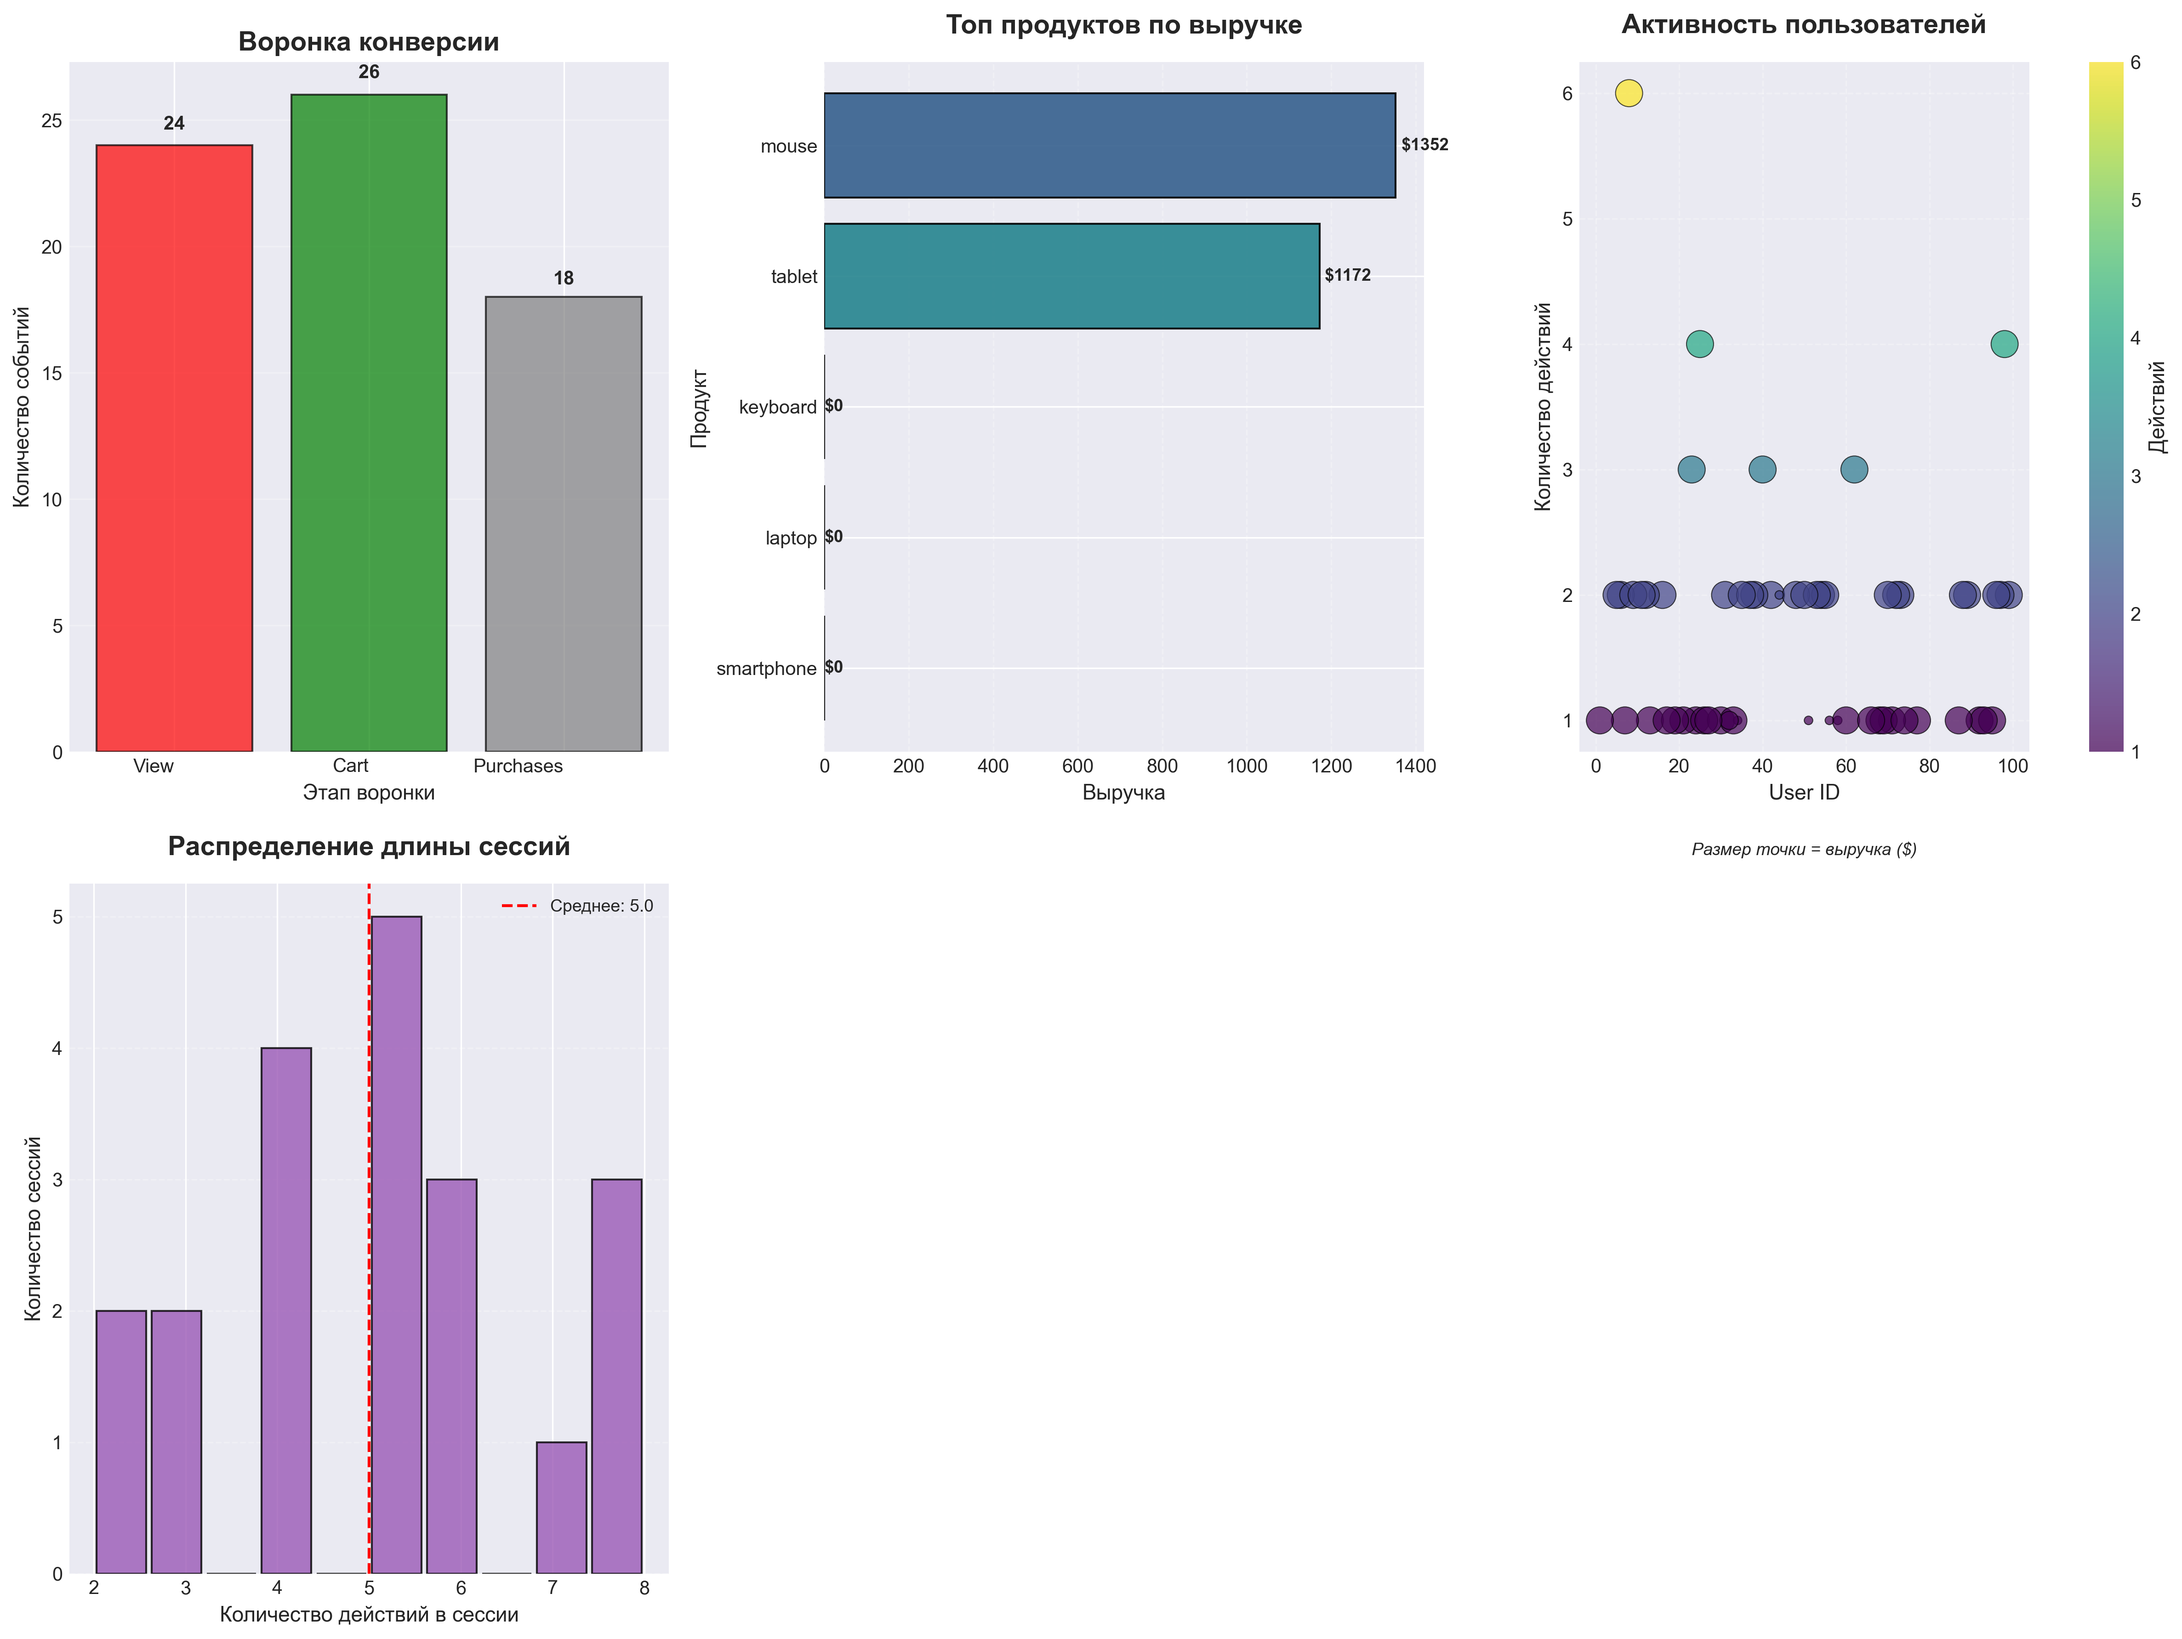
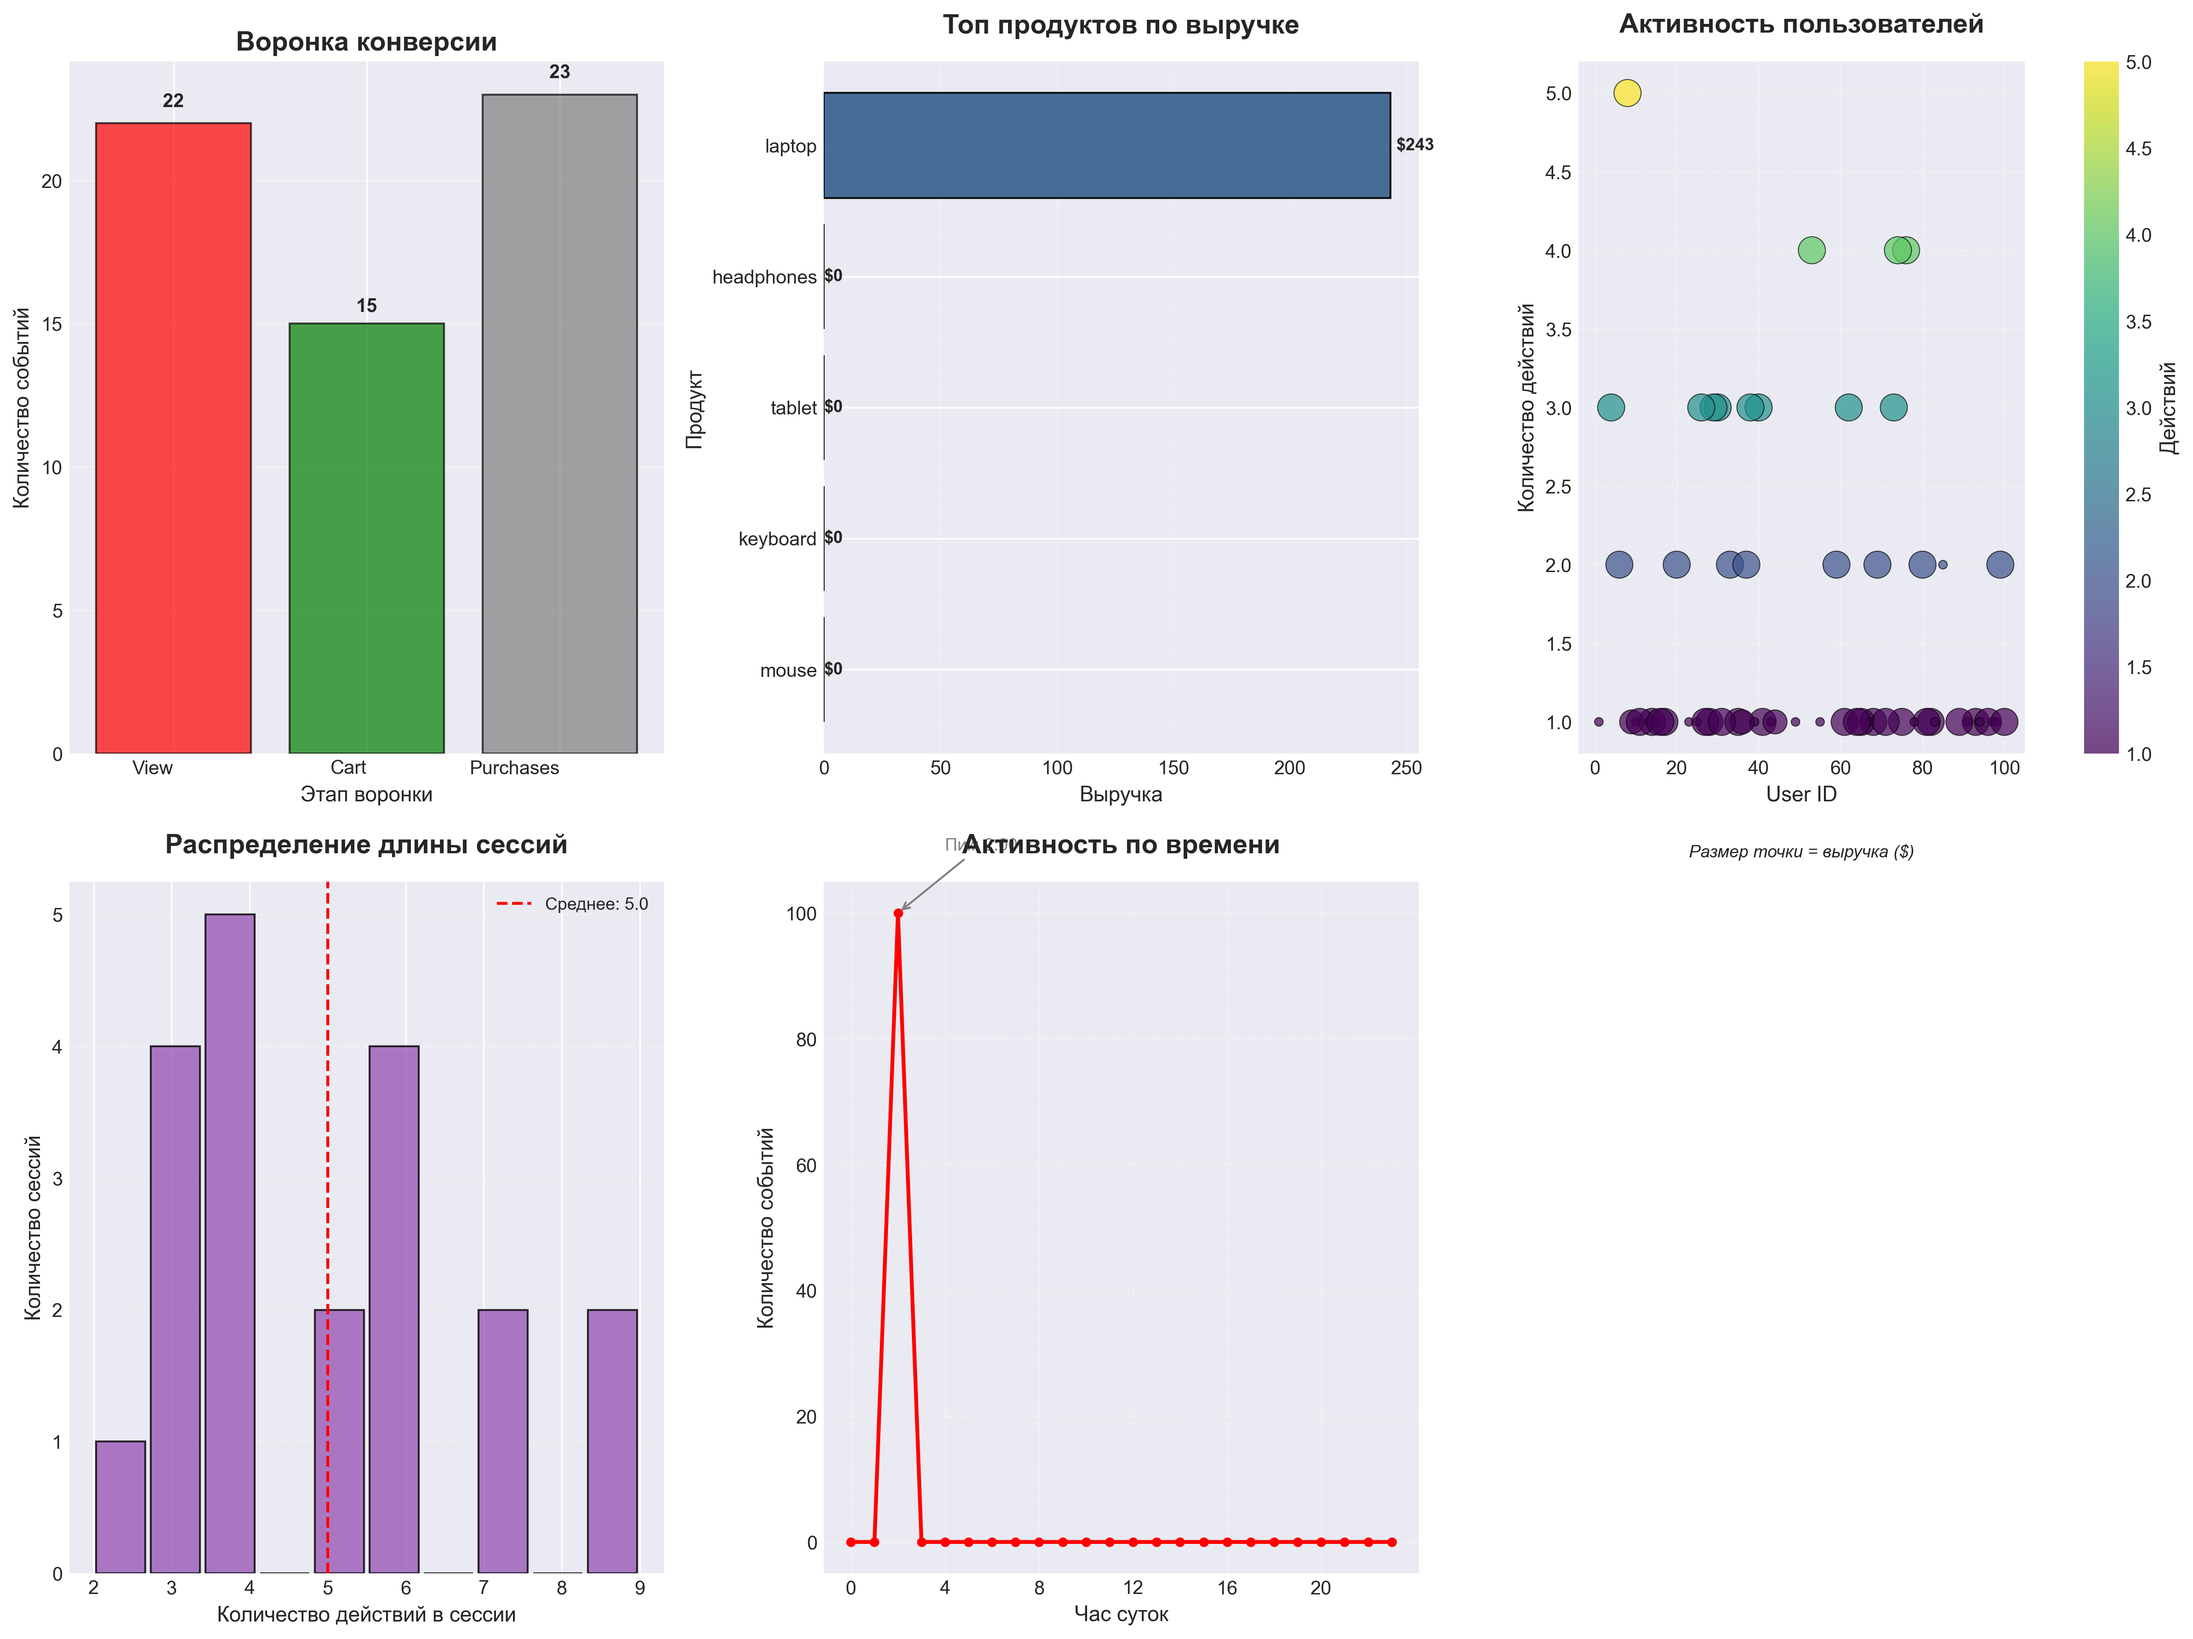
features: Добвален Активность по времени (line plot)

diff --git a/scripts/dashboard.py b/scripts/dashboard.py
@@ -174,6 +174,48 @@ class Dashboard:
             plt.title('Распределение длины сессий', fontsize=14, fontweight='bold')
             plt.grid(True, alpha=0.2)
             plt.tight_layout()
+            
+        # ================График 5: Активность по времени (line plot)===============
+        # Эмуляция активности по часам дня
+        plt.subplot(2, 3, 5)
+        
+        # Извлекаем данные: час → количество событий
+        hours = list(range(24))
+        activity = [metrics.hourly_activity.get(h, 0) for h in hours]
+        
+        # Если данных нет — показываем заглушку
+        if sum(activity) == 0:
+            plt.text(0.5, 0.5, 'Нет данных по времени', 
+                    ha='center', va='center', fontsize=11, style='italic')
+            plt.title('Активность по времени', fontsize=14, fontweight='bold')
+            plt.grid(True, alpha=0.2)
+            plt.tight_layout()
+        else:
+            # Рисуем линейный график с маркерами
+            plt.plot(hours, activity, 
+                    color='red',           # Красный для контраста
+                    marker='o', 
+                    linewidth=2, 
+                    markersize=4,
+                    label='События')
+
+            plt.title('Активность по времени', fontsize=14, fontweight='bold', pad=15)
+            plt.xlabel('Час суток', fontsize=11)
+            plt.ylabel('Количество событий', fontsize=11)
+            plt.xticks(range(0, 24, 4))  # Подписи каждые 4 часа
+            plt.grid(True, alpha=0.3, linestyle='--')
+            plt.tight_layout()
+            
+            # Подсветка пика активности
+            if max(activity) > 0:
+                peak_hour = activity.index(max(activity))
+                plt.annotate(f'Пик: {peak_hour}:00', 
+                            xy=(peak_hour, max(activity)), 
+                            xytext=(peak_hour+2, max(activity)*1.1),
+                            arrowprops=dict(arrowstyle='->', color='gray'),
+                            fontsize=9, color='gray')
+                plt.tight_layout()
+
 
 
 
